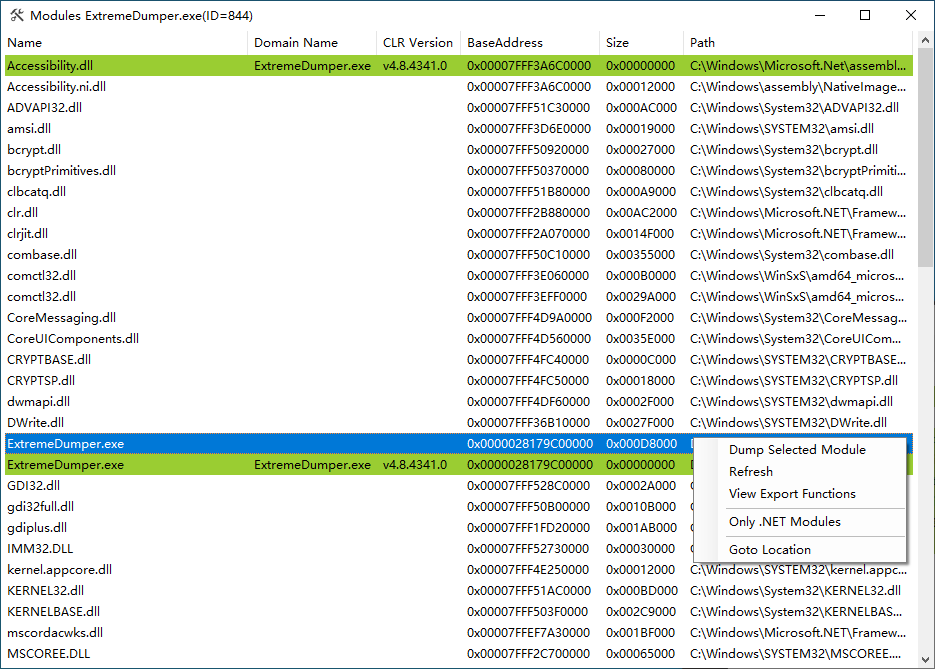
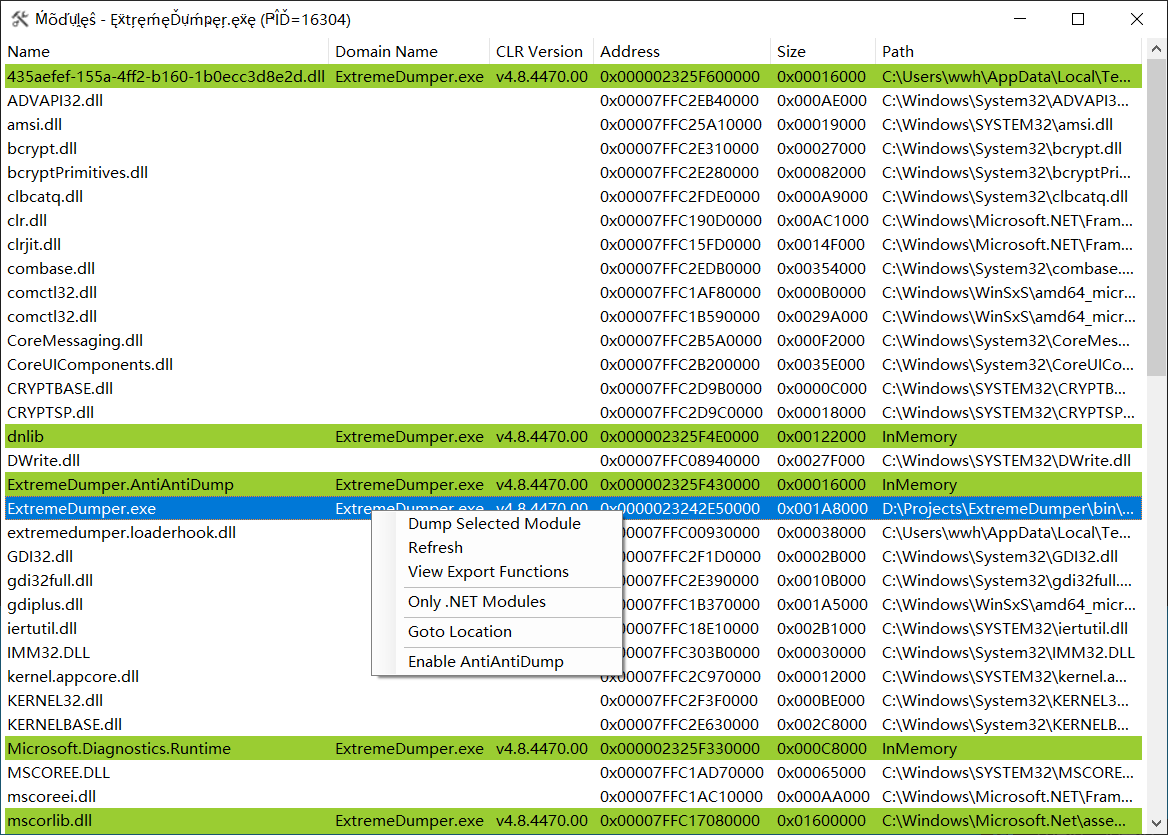
add CREATE_NEW_CONSOLE in LoaderHookCreateProcess disable CallerNameWithType v4.0

diff --git a/ExtremeDumper.LoaderHook/loaderhook.c b/ExtremeDumper.LoaderHook/loaderhook.c
@@ -121,7 +121,7 @@ HRESULT WINAPI LoaderHookCreateProcess(_In_ PCWSTR applicationName, _Inout_opt_ 
 	GetCurrentModuleHandle(&hLoaderHook);
 	GetModuleFileNameA(hLoaderHook, dllPath, MAX_PATH);
 
-	BOOL b = DetourCreateProcessWithDll(applicationName, commandLine, NULL, NULL, TRUE, 0, NULL, currentDirectory, &startupInfo, &processInformation, dllPath, NULL);
+	BOOL b = DetourCreateProcessWithDll(applicationName, commandLine, NULL, NULL, TRUE, CREATE_NEW_CONSOLE, NULL, currentDirectory, &startupInfo, &processInformation, dllPath, NULL);
 	return b ? S_OK : E_FAIL;
 }
 

diff --git a/ExtremeDumper/Logging/Logger.cs b/ExtremeDumper/Logging/Logger.cs
@@ -19,7 +19,7 @@ static partial class Logger {
 	static readonly InternalGetCurrentMethodDelegate internalGetCurrentMethod = CreateInternalGetCurrentMethod();
 	static readonly Dictionary<Type, string> typeAliases = GetTypeAliases();
 
-	public static readonly bool CallerNameWithType = true;
+	public static readonly bool CallerNameWithType = false; // Release下由于tailcall的优化，调用堆栈可能是错误的（call xxx变成了jmp xxx）
 
 #if DEBUG
 	public const bool BreakOnError = true;

diff --git a/README.md b/README.md
@@ -1,5 +1,16 @@
-# ExtremeDumper
+# ExtremeDumper [![Build status](https://ci.appveyor.com/api/projects/status/f6kyx4yv68lwain0?svg=true)](https://ci.appveyor.com/project/wwh1004/extremedumper)
 .NET Assembly Dumper
+
+## Features
+* List all processes
+* List all modules in a process and highlight managed modules
+* Walk memory pages and dump all valid .NET assemblies
+* Dump specified module in modules view
+* Inject .NET assembly into any process
+* Enhanced anti-dump bypass mode
+* .NET assembly loader hook
+* Anti title keyword detection
+* Portable and only one executable file
 
 ## Description
 ### View Processes
@@ -17,12 +28,39 @@ This page show all modules in select process and you can just view .NET modules 
 
 This page shou exported functions for unmanaged dlls.
 
-### Inject .NET assemblies
+### Inject .NET Assemblies
 ![](./Images/InjectManagedDll.png)
 
 Currently the injector supports any .NET Framework assembly with any platform target. And you can pass a string argument to injection main method in injector. In the future it will supports .NET Core.
 
+### Bypass Anti-Dump
+Before:
+![](./Images/AntiAntiDump1.png)
+![](./Images/AntiAntiDump3.png)
+After:
+![](./Images/AntiAntiDump2.png)
+![](./Images/AntiAntiDump4.png)
+
+#### Usage
+Open context menu in modules view and click 'Enable AntiAntiDump'. After enabling it, you can directly and easily dump all .NET assembly which contains anti-dump protection.
+
+#### Principle
+ExtremeDumper will inject core dll into target process and read metadata info from clr internal object. Unlike AntiAntiDump in V2, this one has almost perfect compatibility.
+
+### .NET Assembly Loader Hook
+![](./Images/LoaderHook1.png)
+![](./Images/LoaderHook2.png)
+
+#### Usage
+Click 'Open Loader Hook' in main window and you will see 'Loader Hook' window. Select a program to dump and click 'Run With Hook'. 
+
+#### Advanced Usage
+Rename 'ExtremeDumper.LoaderHook.dll' to 'version.dll' and put it in the root of the program. It can be loaded in dll hijack mode.
+
+#### Principle
+Loader hook will hook 'clr!AssemblyNative::LoadImage' at startup of the application. When any .NET assembly is loaded by apis like 'Assembly.Load(byte[])', loader hook will save raw byte array to disk.
+
 ## Downloads
 GitHub: [Latest release](https://github.com/wwh1004/ExtremeDumper/releases/latest/download/ExtremeDumper.zip)
 
-AppVeyor: [![Build status](https://ci.appveyor.com/api/projects/status/f6kyx4yv68lwain0?svg=true)](https://ci.appveyor.com/project/wwh1004/extremedumper)
+AppVeyor: [Latest build](https://ci.appveyor.com/api/buildjobs/ytfttpe2ev8kyheu/artifacts/bin%2FRelease%2FExtremeDumper.zip)
